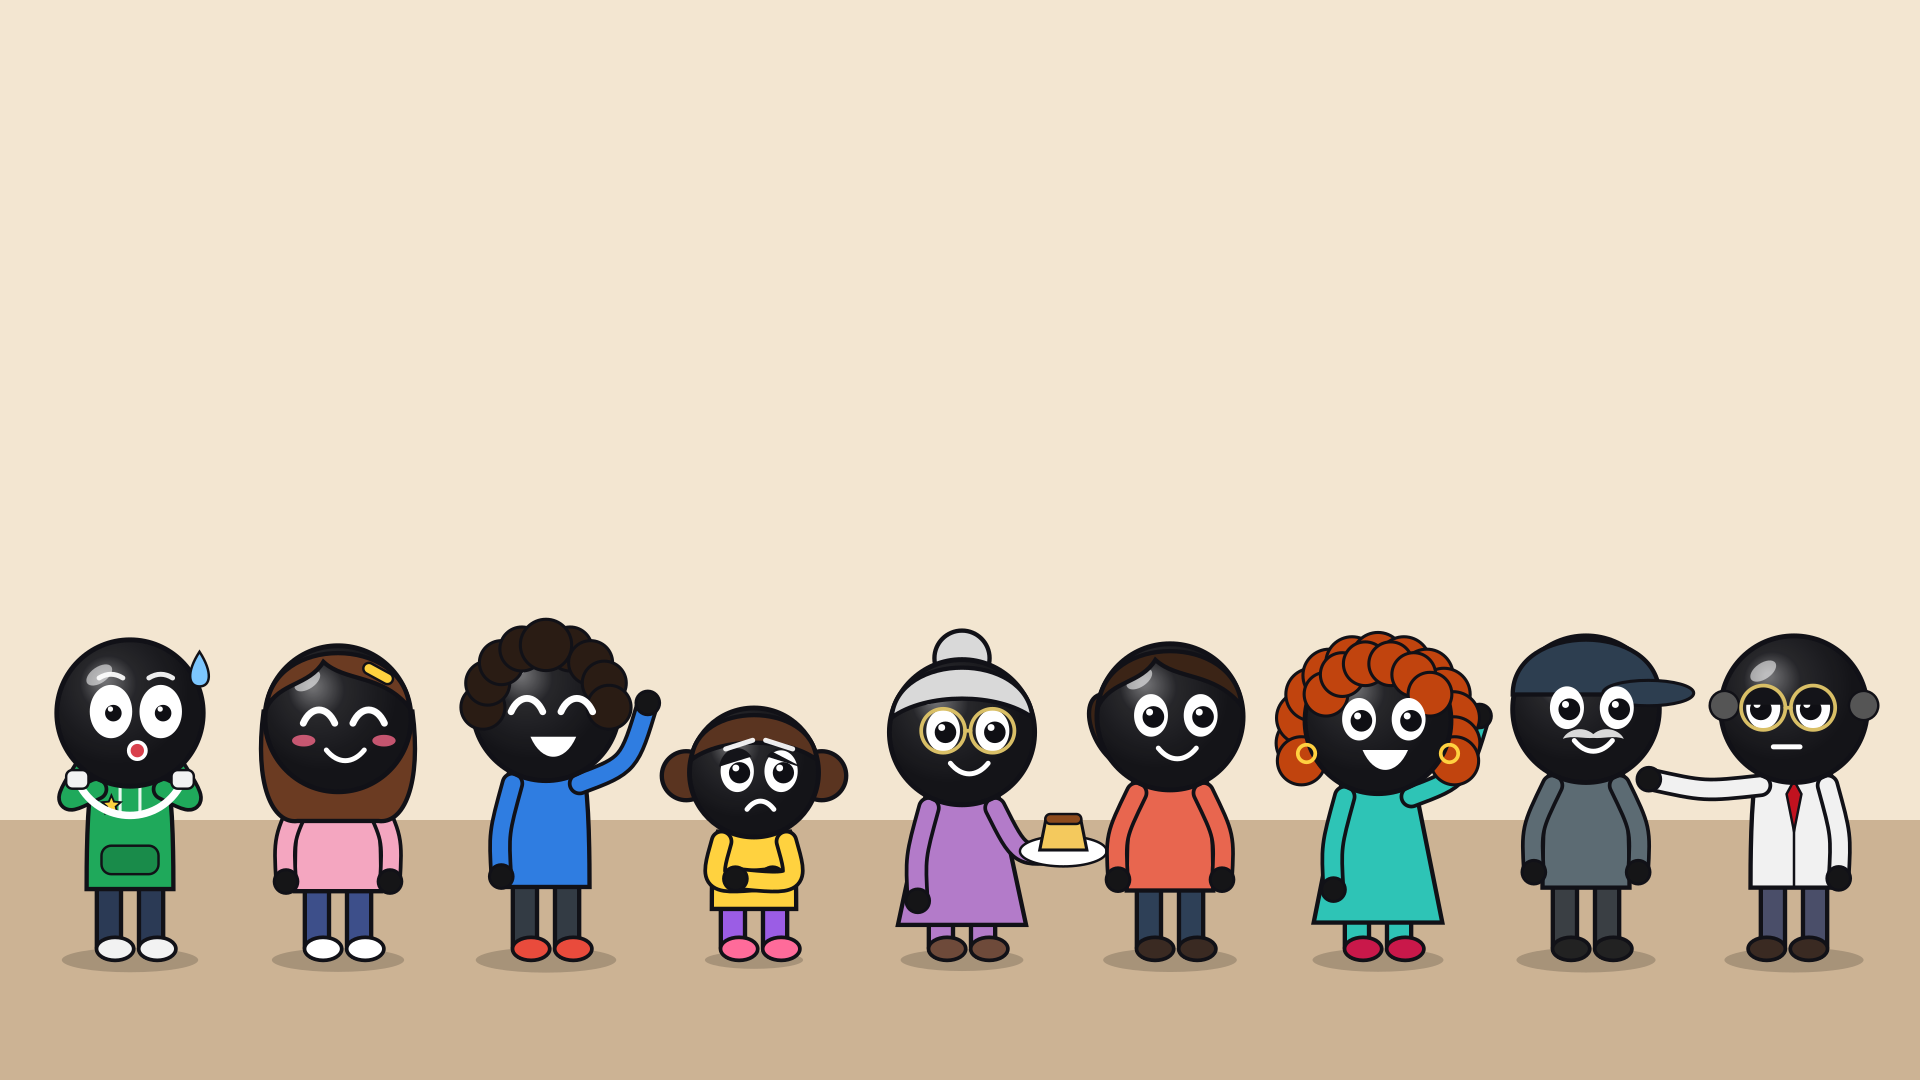
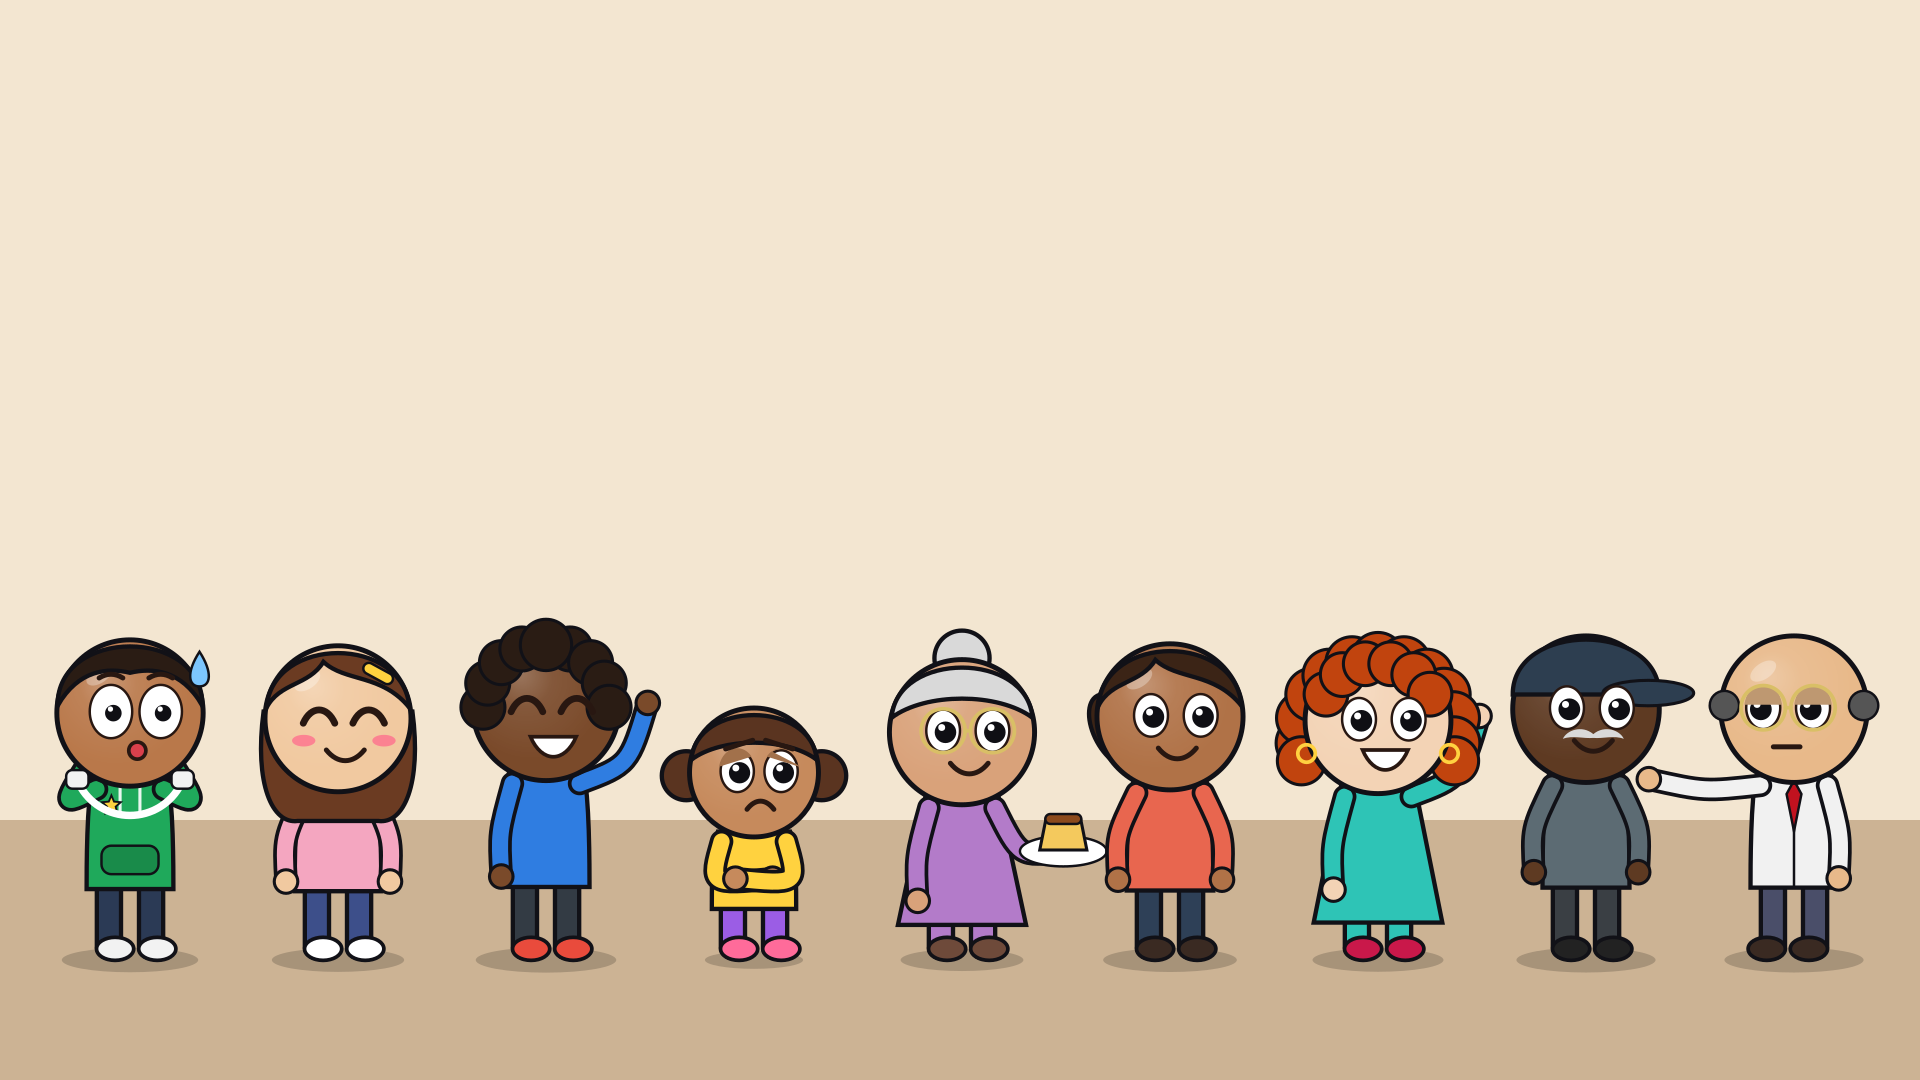
personagens com tons de pele variados
Claude-Session: https://claude.ai/code/session_01UZMS9h8qBD68aYaUXnYDiX

diff --git a/engine/chars.py b/engine/chars.py
@@ -37,6 +37,7 @@ def rrect(ctx, x, y, w, h, r):
 
 OUT = (0.07, 0.07, 0.09, 1)  # cor do contorno
 LW = 7  # espessura do contorno (em unidades do personagem)
+FACE = (0.16, 0.09, 0.07, 1)  # traços do rosto (boca, sobrancelha, olho fechado)
 
 
 def fill_stroke(ctx, fill, lw=LW):
@@ -49,19 +50,19 @@ def fill_stroke(ctx, fill, lw=LW):
 
 # ---------------------------------------------------------------- elenco
 CAST = {
-    'voce':   dict(name='Você', shirt='#1FA95B', pants='#2B3A55', shoes='#F2F2F2', kind='hoodie', hair=None, extra='fone', h=1.0),
-    'bia':    dict(name='Bia', shirt='#F4A6C0', pants='#3D4F8A', shoes='#FFFFFF', kind='tee', hair='long', hair_c='#6B3B22', extra='presilha', h=0.97),
-    'davi':   dict(name='Davi', shirt='#2F7DE1', pants='#333B44', shoes='#E94B3C', kind='tee', hair='curly', hair_c='#2A1C14', extra=None, h=1.03),
-    'lari':   dict(name='Lari', shirt='#FFD23F', pants='#9B5DE5', shoes='#FF6B9A', kind='tee', hair='pigtails', hair_c='#5A3420', extra=None, h=0.72),
-    'vo':     dict(name='Vó Cida', shirt='#B37BC9', pants='#B37BC9', shoes='#6E4A3A', kind='dress', hair='bun', hair_c='#D9D9D9', extra='oculos', h=0.9),
-    'mae':    dict(name='Mãe', shirt='#E8664F', pants='#2E4057', shoes='#3A2A22', kind='tee', hair='ponytail', hair_c='#3B2416', extra=None, h=0.98),
-    'tia':    dict(name='Tia Marta', shirt='#2EC4B6', pants='#2EC4B6', shoes='#C9184A', kind='dress', hair='bigcurls', hair_c='#C1440E', extra='brinco', h=0.96),
-    'jorge':  dict(name='Seu Jorge', shirt='#5C6B73', pants='#3A3F44', shoes='#222222', kind='tee', hair='cap', hair_c='#2D3E50', extra='bigode', h=1.02),
-    'prof':   dict(name='Professor', shirt='#F1F1F1', pants='#4A4E69', shoes='#3A2A22', kind='shirt', hair='bald', hair_c='#555555', extra='oculos', h=1.02),
-    'aluno1': dict(name='Aluno', shirt='#F77F00', pants='#264653', shoes='#FFFFFF', kind='tee', hair='short', hair_c='#2A1C14', extra=None, h=0.98),
-    'aluno2': dict(name='Aluna', shirt='#8AC926', pants='#3D405B', shoes='#FFFFFF', kind='tee', hair='long', hair_c='#1B1B1B', extra=None, h=0.95),
-    'aluno3': dict(name='Aluno', shirt='#6A4C93', pants='#22333B', shoes='#FFFFFF', kind='hoodie', hair='short', hair_c='#4A2C17', extra=None, h=1.0),
-    'aluno4': dict(name='Aluna', shirt='#FF595E', pants='#1D3557', shoes='#FFFFFF', kind='tee', hair='ponytail', hair_c='#E2B04A', extra=None, h=0.95),
+    'voce':   dict(skin='#B9784A', name='Você', shirt='#1FA95B', pants='#2B3A55', shoes='#F2F2F2', kind='hoodie', hair='short', hair_c='#2A1C14', extra='fone', h=1.0),
+    'bia':    dict(skin='#F1C9A0', name='Bia', shirt='#F4A6C0', pants='#3D4F8A', shoes='#FFFFFF', kind='tee', hair='long', hair_c='#6B3B22', extra='presilha', h=0.97),
+    'davi':   dict(skin='#7A4A2A', name='Davi', shirt='#2F7DE1', pants='#333B44', shoes='#E94B3C', kind='tee', hair='curly', hair_c='#2A1C14', extra=None, h=1.03),
+    'lari':   dict(skin='#C68A5C', name='Lari', shirt='#FFD23F', pants='#9B5DE5', shoes='#FF6B9A', kind='tee', hair='pigtails', hair_c='#5A3420', extra=None, h=0.72),
+    'vo':     dict(skin='#D9A27A', name='Vó Cida', shirt='#B37BC9', pants='#B37BC9', shoes='#6E4A3A', kind='dress', hair='bun', hair_c='#D9D9D9', extra='oculos', h=0.9),
+    'mae':    dict(skin='#B07247', name='Mãe', shirt='#E8664F', pants='#2E4057', shoes='#3A2A22', kind='tee', hair='ponytail', hair_c='#3B2416', extra=None, h=0.98),
+    'tia':    dict(skin='#F3D3B5', name='Tia Marta', shirt='#2EC4B6', pants='#2EC4B6', shoes='#C9184A', kind='dress', hair='bigcurls', hair_c='#C1440E', extra='brinco', h=0.96),
+    'jorge':  dict(skin='#5E3A22', name='Seu Jorge', shirt='#5C6B73', pants='#3A3F44', shoes='#222222', kind='tee', hair='cap', hair_c='#2D3E50', extra='bigode', h=1.02),
+    'prof':   dict(skin='#E8B98A', name='Professor', shirt='#F1F1F1', pants='#4A4E69', shoes='#3A2A22', kind='shirt', hair='bald', hair_c='#555555', extra='oculos', h=1.02),
+    'aluno1': dict(skin='#FFDCB8', name='Aluno', shirt='#F77F00', pants='#264653', shoes='#FFFFFF', kind='tee', hair='short', hair_c='#2A1C14', extra=None, h=0.98),
+    'aluno2': dict(skin='#8D5524', name='Aluna', shirt='#8AC926', pants='#3D405B', shoes='#FFFFFF', kind='tee', hair='long', hair_c='#1B1B1B', extra=None, h=0.95),
+    'aluno3': dict(skin='#C68642', name='Aluno', shirt='#6A4C93', pants='#22333B', shoes='#FFFFFF', kind='hoodie', hair='short', hair_c='#4A2C17', extra=None, h=1.0),
+    'aluno4': dict(skin='#EBC09A', name='Aluna', shirt='#FF595E', pants='#1D3557', shoes='#FFFFFF', kind='tee', hair='ponytail', hair_c='#E2B04A', extra=None, h=0.95),
 }
 
 
@@ -197,7 +198,7 @@ def draw_char(ctx, cid, x, y, s=1.0, pose=None):
             ctx.stroke()
         # mão
         ctx.arc(pts[2][0], pts[2][1], 19, 0, TAU)
-        fill_stroke(ctx, '#151517', 5)
+        fill_stroke(ctx, c['skin'], 5)
         return pts[2]
 
     hands = {}
@@ -323,10 +324,10 @@ def draw_head(ctx, cid, c, p, hx, hy, r):
 
     # cabeça
     ctx.arc(hx, hy, r, 0, TAU)
-    fill_stroke(ctx, '#141418', LW + 1)
+    fill_stroke(ctx, c['skin'], LW + 1)
     # brilho (glossy)
     g = cairo.RadialGradient(hx - r * 0.35, hy - r * 0.45, r * 0.05, hx - r * 0.2, hy - r * 0.3, r * 1.0)
-    g.add_color_stop_rgba(0, 1, 1, 1, 0.38)
+    g.add_color_stop_rgba(0, 1, 1, 1, 0.22)
     g.add_color_stop_rgba(0.35, 1, 1, 1, 0.08)
     g.add_color_stop_rgba(1, 1, 1, 1, 0.0)
     ctx.arc(hx, hy, r - 4, 0, TAU)
@@ -338,7 +339,7 @@ def draw_head(ctx, cid, c, p, hx, hy, r):
     ctx.scale(1.0, 0.55)
     ctx.arc(0, 0, r * 0.2, 0, TAU)
     ctx.restore()
-    ctx.set_source_rgba(1, 1, 1, 0.55)
+    ctx.set_source_rgba(1, 1, 1, 0.3)
     ctx.fill()
 
     # cabelo na frente
@@ -398,14 +399,14 @@ def draw_head(ctx, cid, c, p, hx, hy, r):
     for side in (-1, 1):
         cx = hx + side * ex + f * r * 0.08
         if p.blink or p.eyes == 'closed':
-            ctx.set_source_rgba(1, 1, 1, 1)
+            ctx.set_source_rgba(*FACE)
             ctx.set_line_width(9)
             ctx.move_to(cx - er * 0.8, ey + er * 0.2)
             ctx.curve_to(cx - er * 0.3, ey + er * 0.55, cx + er * 0.3, ey + er * 0.55, cx + er * 0.8, ey + er * 0.2)
             ctx.stroke()
             continue
         if p.eyes == 'happy':
-            ctx.set_source_rgba(1, 1, 1, 1)
+            ctx.set_source_rgba(*FACE)
             ctx.set_line_width(11)
             ctx.move_to(cx - er * 0.8, ey + er * 0.3)
             ctx.curve_to(cx - er * 0.4, ey - er * 0.6, cx + er * 0.4, ey - er * 0.6, cx + er * 0.8, ey + er * 0.3)
@@ -418,7 +419,10 @@ def draw_head(ctx, cid, c, p, hx, hy, r):
         ctx.arc(0, 0, er, 0, TAU)
         ctx.restore()
         ctx.set_source_rgba(1, 1, 1, 1)
-        ctx.fill()
+        ctx.fill_preserve()
+        ctx.set_source_rgba(*FACE)
+        ctx.set_line_width(4)
+        ctx.stroke()
         pr = er * (0.42 if p.eyes == 'wide' else 0.55)
         ctx.arc(cx + look, ey + er * 0.08, pr, 0, TAU)
         ctx.set_source_rgba(0.06, 0.06, 0.08, 1)
@@ -435,7 +439,7 @@ def draw_head(ctx, cid, c, p, hx, hy, r):
             ctx.restore()
             ctx.save()
             ctx.clip()
-            ctx.set_source_rgba(0.08, 0.08, 0.1, 1)
+            ctx.set_source_rgba(*darker(c['skin'], 0.82))
             if p.eyes == 'half':
                 ctx.rectangle(cx - er * 1.2, ey - er * 1.4, er * 2.4, er * 1.25)
             elif p.eyes == 'sad':
@@ -454,7 +458,7 @@ def draw_head(ctx, cid, c, p, hx, hy, r):
             ctx.restore()
     # sobrancelhas
     if p.eyes in ('angry', 'sad', 'wide'):
-        ctx.set_source_rgba(1, 1, 1, 0.92)
+        ctx.set_source_rgba(*FACE)
         ctx.set_line_width(8)
         for side in (-1, 1):
             cx = hx + side * ex + f * r * 0.08
@@ -486,7 +490,7 @@ def draw_head(ctx, cid, c, p, hx, hy, r):
     mx = hx + f * r * 0.1
     my = hy + r * 0.48
     mw = r * 0.26
-    ctx.set_source_rgba(1, 1, 1, 1)
+    ctx.set_source_rgba(*FACE)
     ctx.set_line_width(8)
     ctx.set_line_cap(cairo.LINE_CAP_ROUND)
     m = p.mouth
@@ -499,7 +503,7 @@ def draw_head(ctx, cid, c, p, hx, hy, r):
         ctx.restore()
         ctx.set_source_rgba(0.85, 0.25, 0.3, 1)
         ctx.fill_preserve()
-        ctx.set_source_rgba(1, 1, 1, 1)
+        ctx.set_source_rgba(*FACE)
         ctx.set_line_width(6)
         ctx.stroke()
     elif m == 'smile':
@@ -511,7 +515,10 @@ def draw_head(ctx, cid, c, p, hx, hy, r):
         ctx.curve_to(mx - mw * 0.6, my + mw * 1.1, mx + mw * 0.6, my + mw * 1.1, mx + mw * 1.2, my - mw * 0.3)
         ctx.close_path()
         ctx.set_source_rgba(1, 1, 1, 1)
-        ctx.fill()
+        ctx.fill_preserve()
+        ctx.set_source_rgba(*FACE)
+        ctx.set_line_width(6)
+        ctx.stroke()
     elif m == 'flat':
         ctx.move_to(mx - mw * 0.7, my + 4)
         ctx.line_to(mx + mw * 0.7, my + 4)
@@ -524,7 +531,7 @@ def draw_head(ctx, cid, c, p, hx, hy, r):
         ctx.arc(mx, my + 4, mw * 0.45, 0, TAU)
         ctx.set_source_rgba(0.85, 0.25, 0.3, 1)
         ctx.fill_preserve()
-        ctx.set_source_rgba(1, 1, 1, 1)
+        ctx.set_source_rgba(*FACE)
         ctx.set_line_width(6)
         ctx.stroke()
     elif m == 'wavy':
